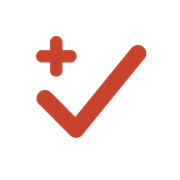
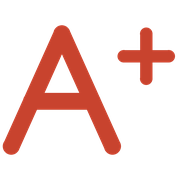
completed feature 30a

Changed region(s): [[0.0, 0.1389, 0.9722, 0.8611]]

diff --git a/frontend/src/styles/global.css b/frontend/src/styles/global.css
@@ -40,17 +40,27 @@
 
   /* Header/wordmark chrome. --ink/--rod/--wash/--rule/--paper are structural
      (rules, borders, tile backgrounds) and have no equivalent among the
-     --color-* tokens above, so they stay their own thing. --bead is the
-     wordmark's own accent (b/c/d letters, the favicon mark) - deliberately
-     not --color-accent, so the brand mark reads as its own thing rather
-     than borrowing the app's button/link purple. The active-nav indicator
-     still uses --color-accent. */
-  --ink:   #0C2233;
-  --rod:   #56707F;
-  --bead:  #C8432E;
-  --wash:  #F2F5F7;
-  --rule:  #DDE5EA;
-  --paper: #FFFFFF;
+     --color-* tokens above, so they stay their own thing. --bead is
+     deliberately not --color-accent, so the brand mark reads as its own
+     thing rather than borrowing the app's button/link purple. The
+     active-nav indicator still uses --color-accent.
+
+     --bead is the favicon mark's one colour - it has no letter role.
+     --bead-b/-c/-d are the wordmark's per-letter accents (feature 030a):
+     the word is a-b-a-c-a-d-a-b-a and colour is keyed to the letter, not
+     position, so both b's share --bead-b. --bead-b is --bead darkened one
+     step (#C8432E only clears 4.46:1 on --wash, under the 4.5:1 floor these
+     are held to; #C0402C clears 4.78:1) rather than reused as-is, so the
+     mark and the wordmark are free to diverge - see Wordmark.module.css. */
+  --ink:    #0C2233;
+  --rod:    #56707F;
+  --bead:   #C8432E;
+  --bead-b: #C0402C;
+  --bead-c: #0F766E;
+  --bead-d: #B45309;
+  --wash:   #F2F5F7;
+  --rule:   #DDE5EA;
+  --paper:  #FFFFFF;
 }
 
 @font-face {

diff --git a/frontend/src/components/Wordmark/Wordmark.jsx b/frontend/src/components/Wordmark/Wordmark.jsx
@@ -8,15 +8,19 @@ const SESSION_KEY = 'abacadaba:wordmark-animated'
 // readers, so the accessible name lives on the link instead and the spelled-
 // out wordmark is aria-hidden. See current-feature.md, Part 2,
 // "Accessibility, and this is the part that gets missed."
+//
+// Colour is keyed to the letter (`bead`), not position: both b's take the
+// same bead so the sequence's one repeat stays visible instead of becoming
+// a fourth, different colour. See current-feature.md (030a), Part 2.
 const LETTERS = [
   { char: 'a', accent: false },
-  { char: 'b', accent: true },
+  { char: 'b', accent: true, bead: 'b' },
   { char: 'a', accent: false },
-  { char: 'c', accent: true },
+  { char: 'c', accent: true, bead: 'c' },
   { char: 'a', accent: false },
-  { char: 'd', accent: true },
+  { char: 'd', accent: true, bead: 'd' },
   { char: 'a', accent: false },
-  { char: 'b', accent: true },
+  { char: 'b', accent: true, bead: 'b' },
   { char: 'a', accent: false },
 ]
 
@@ -39,7 +43,11 @@ function Wordmark() {
       <span className={animate ? `${styles.wordmark} ${styles.animate}` : styles.wordmark} aria-hidden="true">
         {LETTERS.map((letter, index) =>
           letter.accent ? (
-            <b key={index} className={styles.accent} style={{ '--i': index }}>
+            <b
+              key={index}
+              className={`${styles.accent} ${styles[`bead-${letter.bead}`]}`}
+              style={{ '--i': index }}
+            >
               {letter.char}
             </b>
           ) : (

diff --git a/frontend/src/components/Wordmark/Wordmark.module.css b/frontend/src/components/Wordmark/Wordmark.module.css
@@ -22,8 +22,21 @@
 }
 
 .accent {
-  color: var(--bead);
   font-weight: 500;
+}
+
+/* Keyed by letter, not position - see Wordmark.jsx. Each clears 4.5:1
+   against --wash; see global.css for the measured ratios. */
+.bead-b {
+  color: var(--bead-b);
+}
+
+.bead-c {
+  color: var(--bead-c);
+}
+
+.bead-d {
+  color: var(--bead-d);
 }
 
 .descriptor {

diff --git a/tools/brand/build_icons.py b/tools/brand/build_icons.py
@@ -1,17 +1,57 @@
-"""Build abacadaba favicon derivatives: a checkmark with a small plus badge,
-no background tile. Mirrors favicon.svg's geometry - same viewBox, same
-strokes.
+"""Build abacadaba favicon derivatives: an outlined "A+" mark (an A built
+from strokes, a plus badge at its upper right), no background tile. Mirrors
+favicon.svg's geometry - same viewBox, same strokes. The raster mark is
+always drawn in the light-mode colour; favicon.svg additionally carries a
+prefers-color-scheme: dark variant that these PNG/ICO outputs cannot, since
+none of {ico, png} supports a media query.
 
 Requires `pip install pillow`.
 """
 
+import math
 import pathlib
 
 from PIL import Image, ImageDraw
 
-MARK = (200, 67, 46, 255) # --bead  #C8432E
+MARK = (200, 67, 46, 255)  # --bead  #C8432E
 
 OUT = pathlib.Path(__file__).resolve().parent / "out"
+
+# Geometry in the 32-unit viewBox, matching favicon.svg exactly.
+A_LEGS = [(2, 26), (11, 6), (20, 26)]
+A_CROSSBAR = [(5.6, 18), (16.4, 18)]
+PLUS_V = [(26, 6), (26, 14)]
+PLUS_H = [(22, 10), (30, 10)]
+A_STROKE = 3
+PLUS_STROKE = 2.2
+
+VIEWBOX = 32
+CENTER = (VIEWBOX / 2, VIEWBOX / 2)
+
+# Android/W3C maskable-icon safe zone: content must sit inside a circle
+# whose diameter is 80% of the icon (radius 40%), since the OS may crop
+# anything outside it under an arbitrary mask shape. The A+ mark isn't
+# naturally that compact - its widest point (the A's lower-left leg) sits
+# further from centre than that radius - so the maskable render scales the
+# whole mark down and centres it, rather than assuming the artwork already
+# clears it the way the old, narrower checkmark-and-plus happened to.
+SAFE_ZONE_RADIUS = 0.4 * VIEWBOX
+_stroked_points = [
+    (A_LEGS, A_STROKE),
+    (A_CROSSBAR, A_STROKE),
+    (PLUS_V, PLUS_STROKE),
+    (PLUS_H, PLUS_STROKE),
+]
+# Round caps/joins push visible ink up to half a stroke-width past the
+# nominal point, so pad every point by its own half-width rather than
+# measuring the bare polyline - that bare measurement is what the old
+# "the inset carries over" assumption would have gotten wrong.
+_farthest = max(
+    math.hypot(x - CENTER[0], y - CENTER[1]) + width / 2
+    for points, width in _stroked_points
+    for x, y in points
+)
+MASKABLE_SCALE = SAFE_ZONE_RADIUS / _farthest
 
 
 def _stroke(d: ImageDraw.ImageDraw, points, width: float, fill) -> None:
@@ -27,23 +67,31 @@ def mark(px: int, mark_fill=MARK) -> Image.Image:
     S = px * 8
     img = Image.new("RGBA", (S, S), (0, 0, 0, 0))
     d = ImageDraw.Draw(img)
-    u = S / 32.0
+    u = S / VIEWBOX
 
-    check = [(8 * u, 17.5 * u), (13.5 * u, 23 * u), (24.5 * u, 9.5 * u)]
-    _stroke(d, check, 3 * u, mark_fill)
-
-    plus_v = [(10 * u, 7.5 * u), (10 * u, 12.5 * u)]
-    plus_h = [(7.5 * u, 10 * u), (12.5 * u, 10 * u)]
-    _stroke(d, plus_v, 2.2 * u, mark_fill)
-    _stroke(d, plus_h, 2.2 * u, mark_fill)
+    _stroke(d, [(x * u, y * u) for x, y in A_LEGS], A_STROKE * u, mark_fill)
+    _stroke(d, [(x * u, y * u) for x, y in A_CROSSBAR], A_STROKE * u, mark_fill)
+    _stroke(d, [(x * u, y * u) for x, y in PLUS_V], PLUS_STROKE * u, mark_fill)
+    _stroke(d, [(x * u, y * u) for x, y in PLUS_H], PLUS_STROKE * u, mark_fill)
 
     return img.resize((px, px), Image.LANCZOS)
+
+
+def maskable_mark(px: int, mark_fill=MARK) -> Image.Image:
+    """Same mark, scaled and centred to clear the maskable safe zone."""
+    inset_px = round(px * MASKABLE_SCALE)
+    inset = mark(inset_px, mark_fill)
+    canvas = Image.new("RGBA", (px, px), (0, 0, 0, 0))
+    offset = (px - inset_px) // 2
+    canvas.paste(inset, (offset, offset), inset)
+    return canvas
 
 
 OUT.mkdir(exist_ok=True)
 for n in (16, 32, 48, 180, 192, 512):
     mark(n).save(OUT / f"icon-{n}.png")
 mark(180).save(OUT / "apple-touch-icon.png")
-mark(512).save(OUT / "icon-maskable-512.png")
+maskable_mark(512).save(OUT / "icon-maskable-512.png")
 mark(48).save(OUT / "favicon.ico", sizes=[(16, 16), (32, 32), (48, 48)])
 print("built", sorted(p.name for p in OUT.iterdir()))
+print(f"maskable safe-zone scale: {MASKABLE_SCALE:.4f} (farthest point at {_farthest:.2f} of {SAFE_ZONE_RADIUS} radius)")

diff --git a/CHANGELOG.md b/CHANGELOG.md
@@ -2041,3 +2041,165 @@ order, so this only confirms no regression, not the new order itself.
 No COMPLIANCE.md row: this changes the sort order of a public list. It does
 not change what is disclosed to a participant, what is stored, or what any
 locator in `docs/2026-Statement-on-Standards-for-CPE-Programs.pdf` requires.
+
+## 2026-09-05, Correction to Feature 030's entry
+Feature 030's entry above (2026-08-25) was written by commit `812bf23`
+("changed logo and messaging and weird logo") and describes that commit's
+state: the favicon/touch-icon/home-screen-icon set as "a single Jost `a`
+glyph on the `--ink` tile," and "no separate `--bead` token now that the
+accent role is `--color-accent` directly." Two more commits landed the same
+day, after that entry was written, and neither got a changelog entry:
+
+- `5cfdfc6`, "Altering Icon and slogan and coloring": replaced the Jost `a`
+  glyph with the checkmark-and-plus-badge mark (stroke colour `#C8871B`,
+  amber), dropped the `--ink` tile background entirely, added a `--bead`
+  token (`#C8871B`) to `global.css`, and switched `Wordmark`'s `.accent`/
+  `.bead` colour from `--color-accent` to `--bead`. This commit's
+  `favicon.svg` did carry a `prefers-color-scheme: dark` variant (`#8A5A12`).
+- `e7b5988`, "still altering image of favicon and icon": changed `--bead`
+  from `#C8871B` to the current `#C8432E` and, in the same commit, deleted
+  the dark-mode media query from `favicon.svg` - the point where the dark
+  variant 030's own spec called for stopped existing.
+
+So as of `e7b5988`, the repo has held: `favicon.svg` as a stroked check
+with a small plus badge in `#C8432E`, no tile, no dark variant; `--bead:
+#C8432E` in `global.css`, deliberately not `--color-accent`, with
+`Wordmark`'s `.accent` reading it - not the state 030's entry describes.
+This correction closes that gap; 030's entry itself is left as written, per
+CLAUDE.md's append-only rule. Feature 030a (below) supersedes this state in
+turn, on top of an accurate record rather than 030's original one.
+
+## 2026-09-05, Feature 030a, The mark and the wordmark palette
+
+### Part 1, the mark
+Option B from `current-feature.md`: the mark is now an outlined "A+" -
+an `A` built from three strokes (two legs sharing an apex, a crossbar) plus
+a small plus badge at its upper right, never overlapping. `A+` was chosen
+over the bare-checkmark fallback because it held up at real size: rendered
+through Chromium's own SVG rasterizer at true 16x16 (`favicon.svg` served
+by Vite, screenshotted via Playwright, not just zoomed), the `A` is
+unambiguous and the plus resolves to a small but distinct cross with a
+visible gap from the `A`'s stroke - not the "debris on top of it" the old
+check-plus-badge lockup produced at that size. Verified against both a
+light (#ffffff) and a dark (#202124, a typical Chromium dark-chrome value)
+background, since the acceptance criterion is legibility on a light and a
+dark tab bar, not just on white.
+
+`favicon.svg` now carries the `prefers-color-scheme: dark` variant 030's
+spec asked for and the corrected history above shows never shipped: the
+mark strokes `#C8432E` in light mode, `#DE6C52` in dark (chosen so the
+lightened stroke clears 4.5:1 against a `#202124`-class dark tab background
+- see the ratio table in Part 2's section below for the method). Screenshotted
+in both modes to confirm the media query actually swaps the colour rather
+than only compiling.
+
+`tools/brand/build_icons.py` draws the identical geometry (same point
+coordinates as the SVG paths, same stroke widths) so the raster set can't
+drift from the vector one; its docstring is updated off the old
+checkmark-and-plus description. Raster outputs (`favicon.ico` at 16/32/48,
+`apple-touch-icon.png`, `icon-192`, `icon-512`) always use the light-mode
+colour - `.ico`/`.png` have no media-query equivalent, noted in the
+docstring rather than left implicit.
+
+The maskable icon needed a real fix, not just a check: the task description
+assumed an existing inset "carries over," but reading `build_icons.py`
+showed `icon-maskable-512.png` was rendered by the exact same `mark()` call
+as `icon-512.png` - no inset code exists or ever did. The old check-and-plus
+mark happened to clear the Android/W3C maskable safe zone (a circle of
+radius 40% of the icon, i.e. content must stay within an 80%-diameter
+centred circle) by accident, because its coordinates left generous margin in
+the 32-unit viewBox. The new, wider A+ mark does not: its farthest reach
+(the `A`'s lower-left leg, including the round line-cap's overshoot past the
+nominal endpoint) sits at radius 18.70 of the 12.8 the safe zone allows.
+`build_icons.py` now computes that farthest point from the actual path
+geometry (legs, crossbar, plus, each padded by its own half stroke-width for
+the cap/join overshoot) and derives a scale factor (0.6843) that a
+`maskable_mark()` function uses to draw the mark smaller and centred before
+compositing it onto the full 512x512 canvas. Verified by drawing the W3C
+safe-zone circle over the generated `icon-maskable-512.png` directly - the
+mark sits fully inside it with margin to spare.
+
+`tools/brand/build_og_default.py` does not draw the mark - checked by
+reading the script, not by trusting 030's entry (which has already been
+wrong three times over, per the correction above): it renders only the
+Jost wordmark text and a footer line, no check/plus/A+ shape anywhere. No
+change needed there for Part 1.
+
+### Part 2, the wordmark palette
+`b`, `c`, `d` now carry three distinct colours instead of one, keyed to the
+letter rather than position, per `current-feature.md`'s rule: the word is
+`a b a c a d a b a` and both `b`s share a colour so the sequence's one
+repeat stays visible. New tokens in `global.css` - `--bead-b: #C0402C`,
+`--bead-c: #0F766E`, `--bead-d: #B45309` - sit alongside the unchanged
+`--bead: #C8432E` (now documented as the favicon mark's colour only, with no
+letter role). Measured contrast (WCAG relative-luminance formula, checked
+against `--wash` `#F2F5F7`, the surface these letters actually sit on):
+
+| Token | on `--wash` | on white | on dark bg `#16151A` |
+| --- | --- | --- | --- |
+| `--bead-b` `#C0402C` | 4.78 | 5.24 | 3.47 |
+| `--bead-c` `#0F766E` | 5.00 | 5.47 | 3.32 |
+| `--bead-d` `#B45309` | 4.59 | 5.02 | 3.62 |
+
+All three clear the 4.5:1 floor on `--wash`, which the task held every value
+to regardless of the `aria-hidden` exemption a strict WCAG reading would
+allow. `--bead-b` is not the unmodified `#C8432E` from the spec's
+"recommended set" - that value is only 4.46:1 on `--wash`, under the floor,
+matching the spec's own observation that the current `--bead` was already
+short of 4.5 on the surface it sits on. Darkened one step in HLS lightness
+(-0.02) to `#C0402C` to clear it while staying in the same hue family as the
+favicon mark. Went with the literal recommended set (warm-cool-warm) rather
+than the all-cool alternative - the all-cool candidates all fail the dark-
+background column outright, and per the "cool" section, the thumbnails-are-
+blue reasoning for avoiding a cool wordmark hasn't gone away.
+
+`Wordmark.jsx`'s `LETTERS` array gets a `bead: 'b' | 'c' | 'd'` field on each
+accent entry, keyed by `char` (both `b` entries get `bead: 'b'`) rather than
+by array index, so the two `b`s cannot drift apart if the array is ever
+reordered. `Wordmark.module.css` adds one class per bead (`.bead-b`,
+`.bead-c`, `.bead-d`) rather than a single CSS-custom-property-per-letter
+scheme - fewer moving parts for three fixed colours. `.accent` keeps the
+shared `font-weight: 500` and drops the `color` it used to set directly.
+`.constant`, the `aria-hidden` structure, and the settle animation
+(`.animate .accent`, keyed off `--i`) are untouched.
+
+### Dark mode - checked, not a live bug
+`Header.module.css`'s `.header` and `.bar` use `--wash` and `--paper`, not
+`--color-bg`/`--color-surface` - confirmed by reading the file and then by
+screenshotting the homepage under `prefers-color-scheme: dark` via
+Playwright: the header stays visually identical (light background, same
+wordmark colours) in both modes. So `--ink`'s 1.12:1 contrast against the
+dark-mode page background, flagged as a hypothetical risk in
+`current-feature.md`, is not reachable through the header - it's a
+pre-existing fact about tokens that are structural, not something this
+feature introduced or needs to fix.
+
+### Verification
+- `frontend/public/favicon.svg`, rendered via Chromium (Playwright) at real
+  16x16, on light and dark backgrounds: A+ legible in both, plus badge
+  distinct from the A with a visible gap in both. Screenshots taken, not
+  just described.
+- `icon-maskable-512.png` checked against a drawn 40%-radius safe-zone
+  circle: clears it.
+- Homepage screenshotted under both colour schemes: three distinct bead
+  colours, both `b`s matching, header chrome unchanged in dark mode,
+  descriptor/sign-in/nav all unaffected.
+- `npm run lint`: clean (four pre-existing warnings, none in touched files).
+- `npm run build`: succeeds.
+- `pytest`: 384 passed, unchanged - this feature touches no backend code.
+
+### Numbering
+Took the letter suffix as `current-feature.md` proposed: both changes are
+corrective/expansive work entirely inside 030's surface area (the favicon
+set, the `Wordmark` component), not new capability, so `030a` rather than
+the next whole number.
+
+No COMPLIANCE.md row: brand colour and tab iconography map to no locator in
+`docs/2026-Statement-on-Standards-for-CPE-Programs.pdf`.
+
+Out of scope, noted rather than silently done: `build_og_default.py` colours
+its wordmark accents with `ACCENT` (`--color-accent`'s dark-mode value,
+`#a78bfa`, a single purple), not `--bead`/`--bead-b/c/d` - it was already
+inconsistent with the header before this feature and Part 2's task list
+named only `global.css`, `Wordmark.jsx`, and `Wordmark.module.css`, so it
+was left alone rather than pulled into scope on its own.
